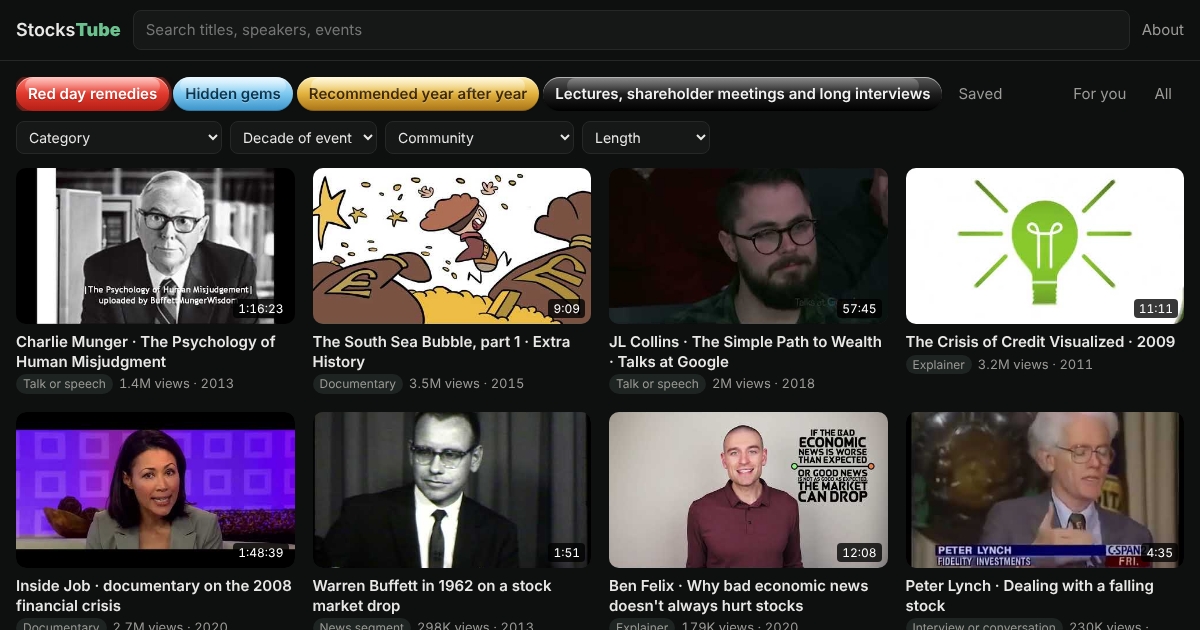
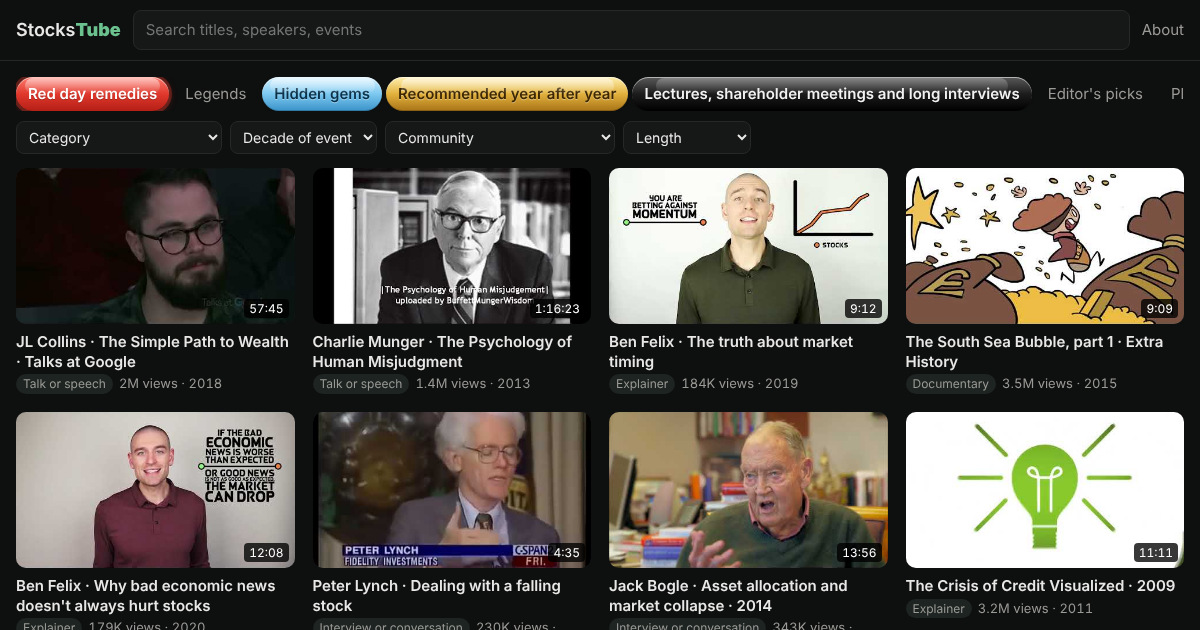
feat(site): channel variety on red day remedies and a fresh home page preview
Claude-Session: https://claude.ai/code/session_01CjWmM4HG2VgqJX3JDGHhrK

diff --git a/site/app.js b/site/app.js
@@ -61,7 +61,7 @@ async function home(tab) {
   else if (tab === 'saved') { const s = saved(), m = new Map([...CUR.playlists.flatMap(p => p.items), ...CUR.picks, ...CUR.legends, ...ALL].map(v => [v.i, v])); list = s.map(id => m.get(id)).filter(Boolean) }
   else list = ALL.slice();
   list = applyFilters(list);
-  if (['top', 'deep', 'durable', 'longs'].includes(tab)) list = diversify(list);
+  if (['top', 'deep', 'durable', 'longs', 'red'].includes(tab)) list = diversify(list);
   const decs = META.decades.map(d => [d, d + 's']), coms = META.communities.map(c => [c[0], `${c[0]} (${c[1]})`]);
   app.innerHTML = `${nav(tab)}
   <div class="filters">${opt('cat', 'Category', META.categories.map(c => [c, c]))}${opt('dec', 'Decade of event', decs)}${opt('com', 'Community', coms)}${opt('len', 'Length', [['s', 'Under 20 min'], ['m', '20 to 60 min'], ['l', 'Over 60 min']])}</div>
